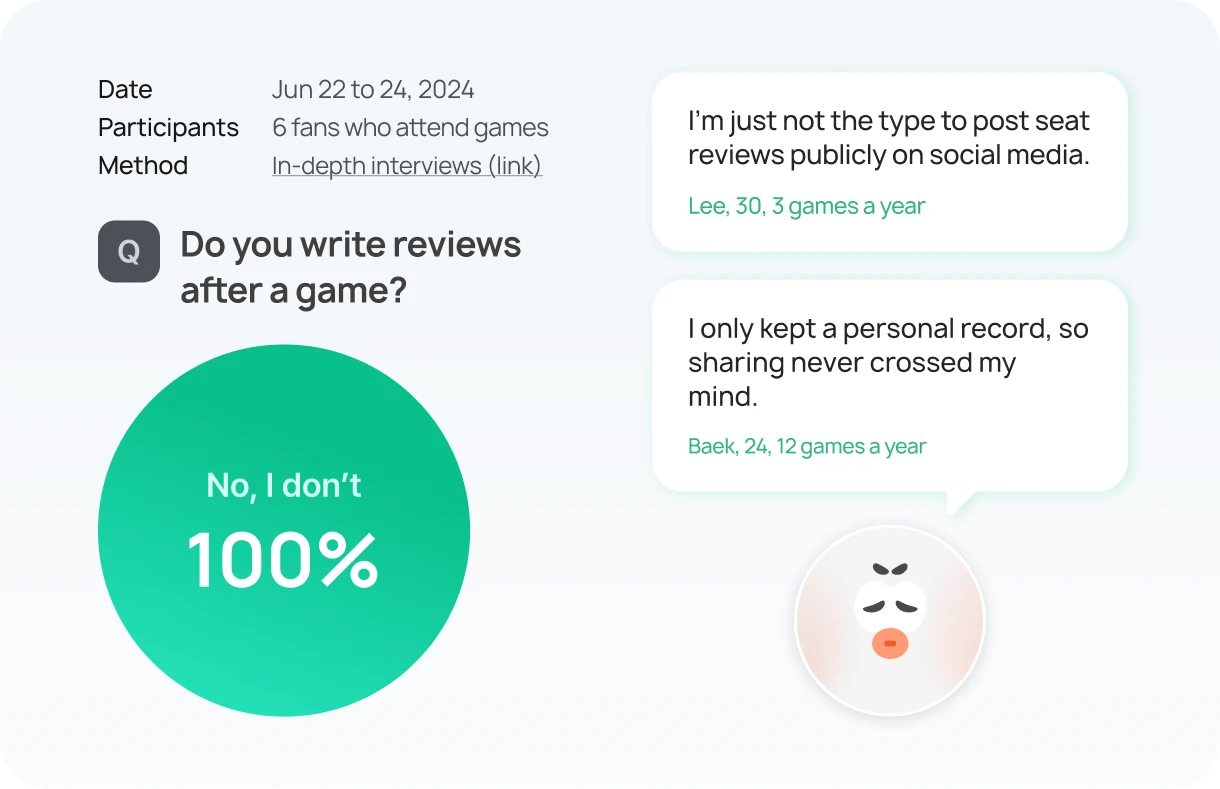
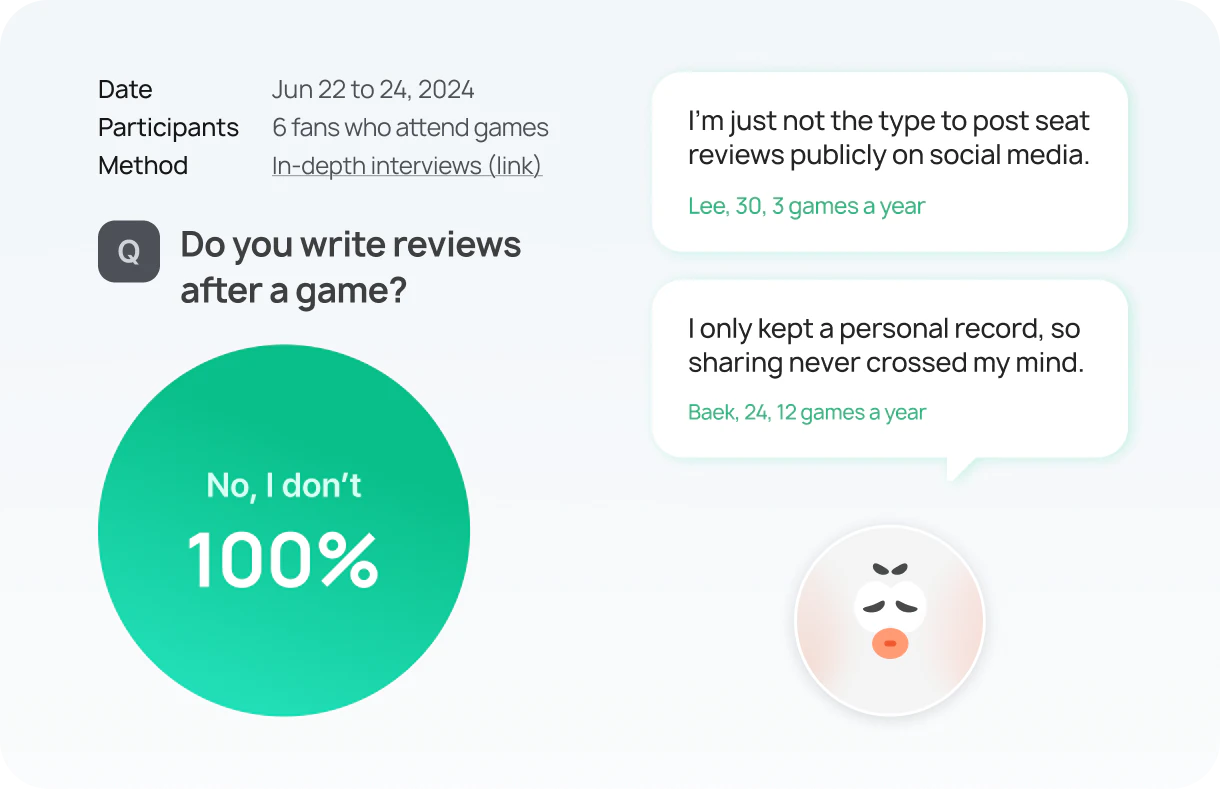
Spot: sync with Figma (result card body 15px, Lessons layout, updated images)

Changed region(s): [[0.5607, 0.3954, 0.9033, 0.6084]]

diff --git a/work/spot/index.html b/work/spot/index.html
@@ -329,7 +329,7 @@
             <p class="sp-result__num">5<span class="sp-result__x">x</span></p>
             <p class="sp-result__change"><span>31</span><span>→</span><span>6 sec</span></p>
           </div>
-          <p class="sp-body">One clear button on the home screen took users straight to the core feature.</p>
+          <p class="sp-body sp-body--15">One clear button on the home screen took users straight to the core feature.</p>
         </article>
         <article class="sp-result">
           <div class="sp-result__top">
@@ -337,7 +337,7 @@
             <p class="sp-result__num">8.2<span class="sp-result__x sp-result__x--400">x</span></p>
             <p class="sp-result__change"><span>45</span><span>→</span><span>372 reviews</span></p>
           </div>
-          <p class="sp-body">The growing character gave fans a reason to share. Users said they wanted to keep watching it level up.</p>
+          <p class="sp-body sp-body--15">The growing character gave fans a reason to share. Users said they wanted to keep watching it level up.</p>
         </article>
         <article class="sp-result">
           <div class="sp-result__top">
@@ -345,7 +345,7 @@
             <p class="sp-result__num sp-result__num--word">Grand Prize</p>
             <p class="sp-result__change"><span>4.46 / 5 user satisfaction</span></p>
           </div>
-          <p class="sp-body">Won the Grand Prize at DEPROMEET, ranked #1 Trending Product on an IT platform, and got featured on Behance’s UI/UX gallery.</p>
+          <p class="sp-body sp-body--15">Won the Grand Prize at DEPROMEET, ranked #1 Trending Product on an IT platform, and got featured on Behance’s UI/UX gallery.</p>
         </article>
       </div>
     </div>
@@ -363,7 +363,7 @@
           <p class="sp-body">On a zero-to-one product, removing the tab and building a 3D character meant putting other features on hold. <strong>But interviews and testing kept pointing to the same two problems, finding seat views and a lack of reasons to share, so I spent two weeks on just those. </strong>Through the baseball season, I kept testing with fans who regularly attend games and refined the design until launch. The result was an experience fans shared on their own. Next time, I’ll keep using research and data, not assumptions, to decide where effort goes.</p>
         </div>
         <div class="sp-panel">
-          <img src="../../assets/images/spot/lessons.webp" width="540" height="301" alt="SPOT character cards on a green background" loading="lazy">
+          <img src="../../assets/images/spot/lessons.webp" width="560" height="325" alt="SPOT character cards on a green background" loading="lazy">
         </div>
       </div>
     </div>

diff --git a/work/spot/spot.css b/work/spot/spot.css
@@ -102,6 +102,7 @@
 
 .sp-body strong { font-weight: 600; }
 .sp-body--016  { letter-spacing: -0.16px; }
+.sp-body--15   { font-size: 15px; line-height: 22.5px; }
 .sp-body--ink  { color: var(--sp-text); }
 
 /* Visual panels exported from Figma (card incl. radius) */
@@ -418,8 +419,8 @@
 }
 
 /* ── Lessons learned (6476:72966): text 680 / 60 / image 540 ── */
-.sp-lessons > :first-child { flex: 680 1 0; }
-.sp-lessons > :last-child  { flex: 540 1 0; }
+.sp-lessons > :first-child { flex: 660 1 0; }
+.sp-lessons > :last-child  { flex: 560 1 0; }
 
 /* ── Responsive ── */
 @media (max-width: 1024px) {
